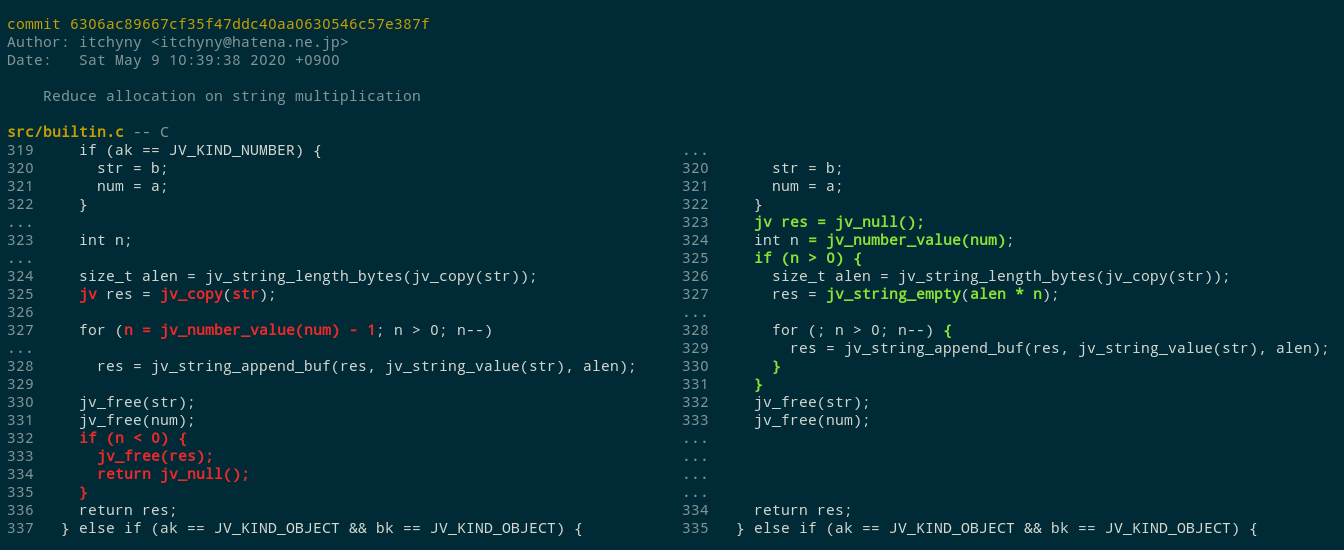
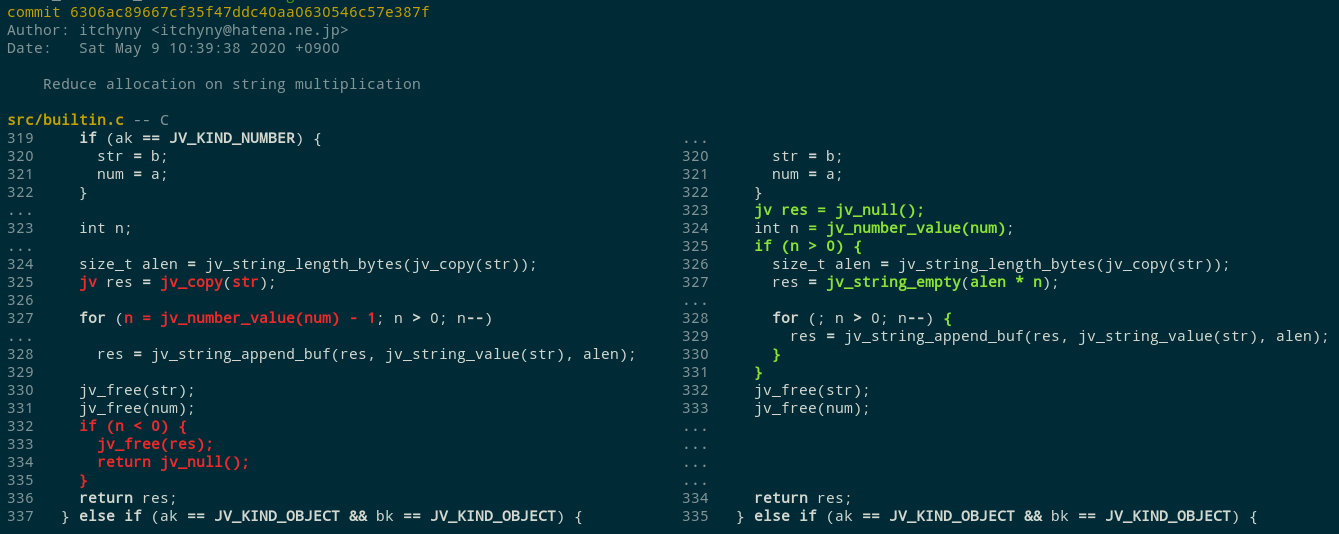
Update screenshots and note repro commands

diff --git a/README.md b/README.md
@@ -20,6 +20,23 @@ See [the manual](http://difftastic.wilfred.me.uk/) to get started.
 
 ![Haskell screenshot](img/haskell.png)
 
+<!--
+To regenerate these screenshots:
+
+$ git clone git@github.com:stedolan/jq.git
+$ cd jq
+$ GIT_EXTERNAL_DIFF=difftastic git show --ext-diff 6306ac89667cf35f47ddc40aa0630546c57e387f
+
+$ git clone git@github.com:MisterTea/EternalTerminal.git
+$ cd EternalTerminal
+$ GIT_EXTERNAL_DIFF=difftastic git show --ext-diff 51ca3e695e94b3fec037c8fe1050e3e343b2a890
+
+$ git clone git@github.com:xmonad/xmonad.git
+$ cd xmonad
+$ GIT_EXTERNAL_DIFF=difftastic git show --ext-diff 6d661203d39e44d1dc2aa3a930381e6711d26d56
+
+-->
+
 ## Languages
 
 Difftastic supports the following languages:
